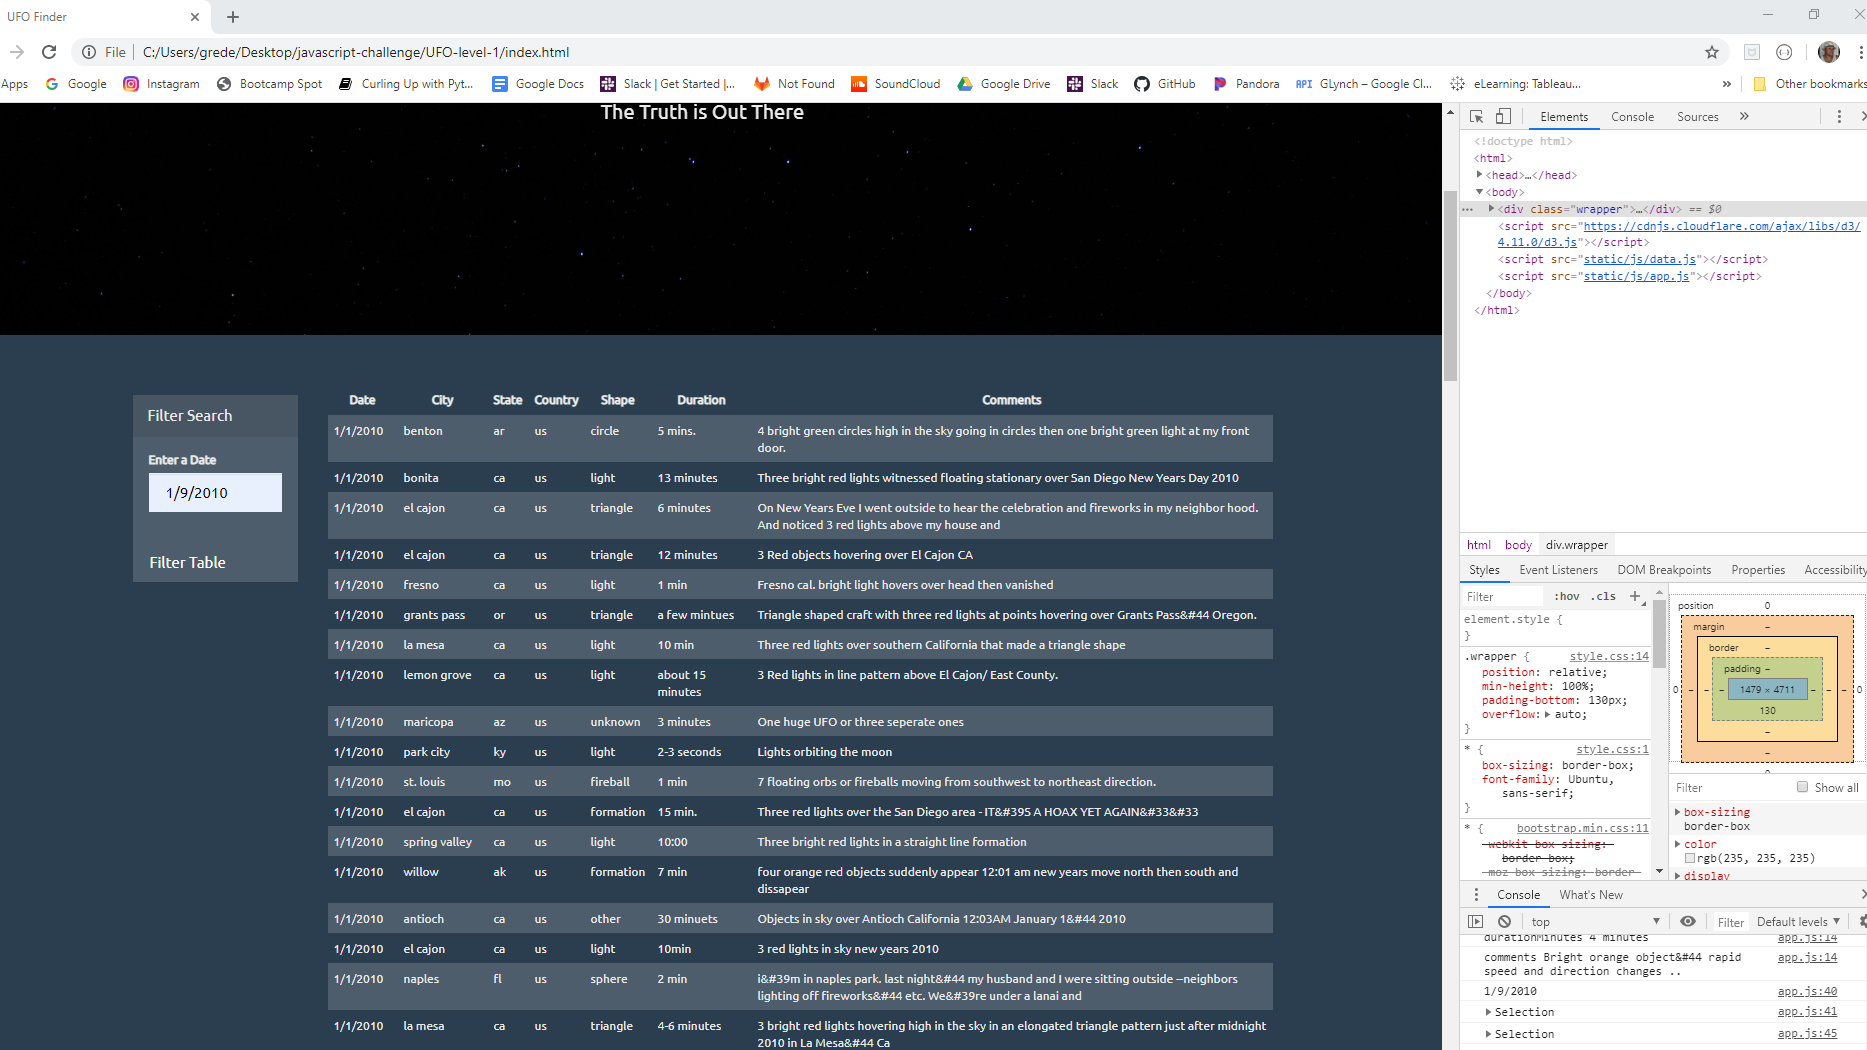
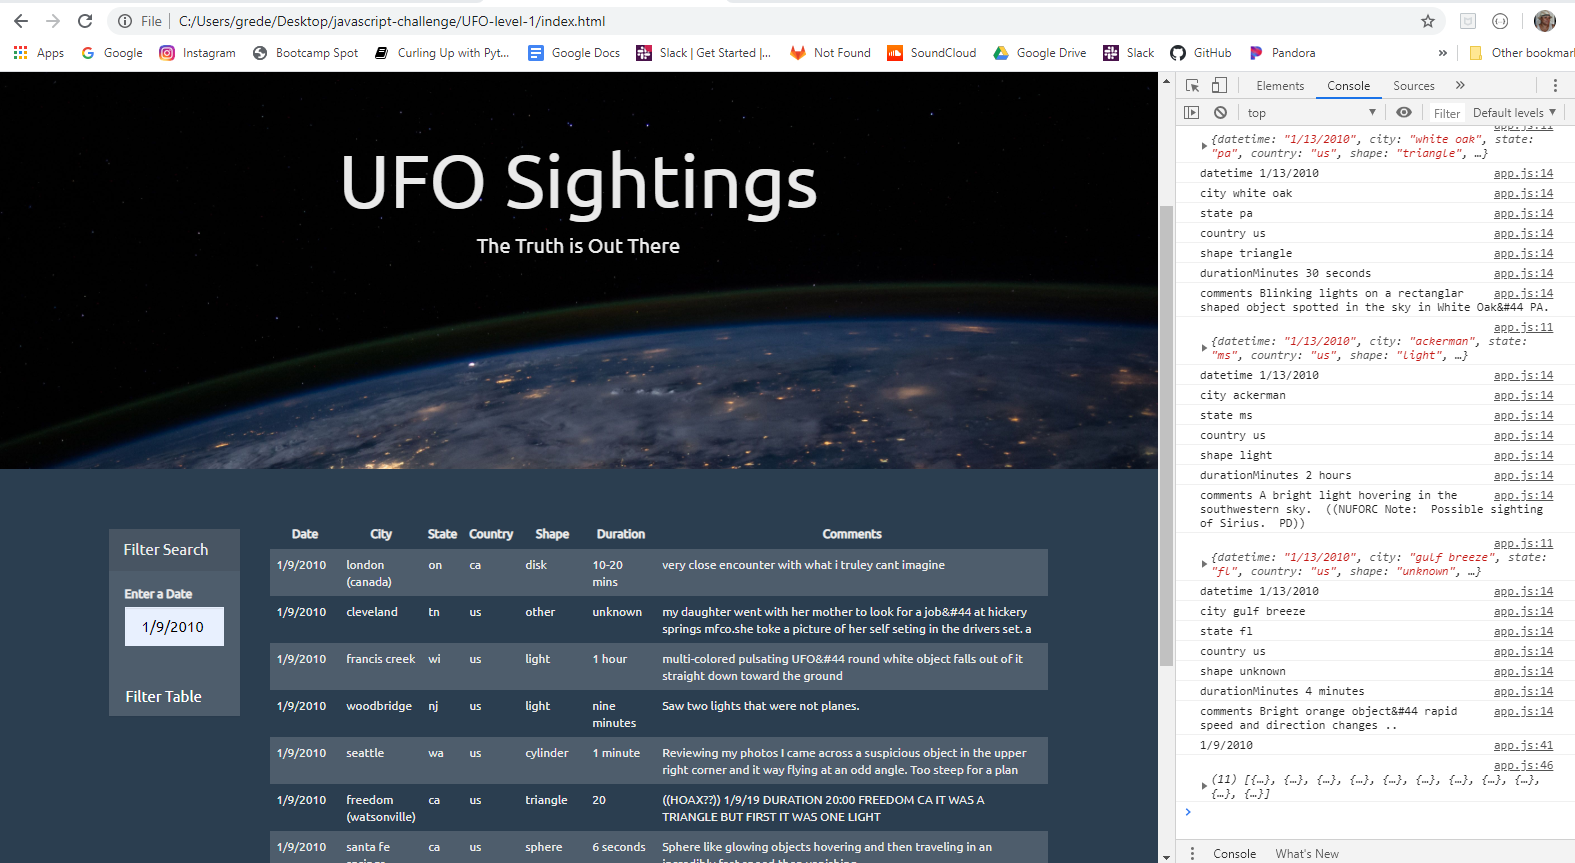
Adding Final Files

diff --git a/UFO-level-1/static/js/app.js b/UFO-level-1/static/js/app.js
@@ -33,25 +33,26 @@ form.on("submit", runEnter);
 function runEnter(){
     // stop the broswer from refreshing
     d3.event.preventDefault();
+    tbody.html("");
     // select the input and retrieve the user value 
     var inputElement = d3.select("#datetime");
     var inputValue = inputElement.property("value");
     //log to verify value is working
     console.log(inputValue);
-    console.log(tbody);
+    //console.log(tbody);
     //Capture the filtered data set
-    var filterSightings = tbody.filter(tbody => data.datetime --- inputValue);
+    var filterSightings = data.filter(tdata => tdata.datetime === inputValue);
     //console log the result
     console.log(filterSightings);
+
     // select the th element
-    var resultsTable = d3.select("table table-striped");
+   // var resultsTable = d3.select("table table-striped");
     //Loop on filtered data and populate the table
-    data.forEach((filterSightings) => {
-        var row = resultsTable.append("tr");
+    filterSightings.forEach((filterSightings) => {
+        var row = tbody.append("tr");
         Object.entries(filterSightings).forEach(([key, value]) => {
             var cell = row.append("td");
             cell.text(value);
         });
-        return resultsTable;
     })     
 };
